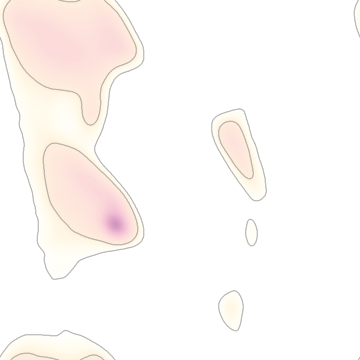
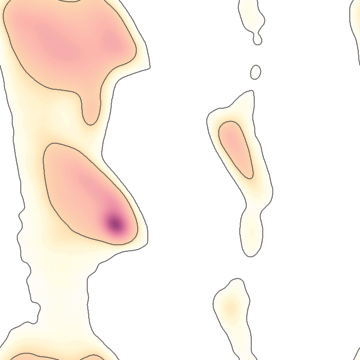
Update Ramachandran plot
Default levels are 2% and 0.5% now (new figures). Background ramachandran
figures are gamma corrected (2.5).
For stand-alone rama plot add options to change gamma and contour levels
on the command line.

[This was a nightmare to merge.]

diff --git a/src/rama_plot_with_canvas.cc b/src/rama_plot_with_canvas.cc
@@ -37,6 +37,7 @@
 #include <iostream>
 #include <algorithm>
 #include <sys/stat.h>
+#include <cmath>
 
 #include <gdk/gdkkeysyms.h> // for keyboarding.
 
@@ -65,6 +66,10 @@
 
 #include "c-interface.h"
 #include "c-interface-gtk-widgets.h"
+
+
+float coot::rama_plot::default_level_prefered = 0.02;
+float coot::rama_plot::default_level_allowed = 0.0005;
 
 void
 coot::rama_plot::init(int imol_in, const std::string &mol_name_in, float level_prefered, float level_allowed,
@@ -438,7 +443,6 @@ coot::rama_plot::init_internal(const std::string &mol_name,
        level_prefered != current_level_prefered) {
       current_level_allowed = level_allowed;
       current_level_prefered = level_prefered;
-
    }
 
    if (!current_bg) {
@@ -553,11 +557,14 @@ coot::rama_plot::setup_internal(float level_prefered, float level_allowed) {
    
    // Lovell et al. 2003, 50, 437 Protein Structure, Function and Genetics values:
    rama_threshold_preferred = 0.02; 
-   rama_threshold_allowed = 0.002;
+   rama_threshold_allowed = 0.0005;
    
    //clipper defaults: 0.01 0.0005
 
    rama.set_thresholds(level_prefered, level_allowed);
+   // do we need this?
+   rama_threshold_preferred = level_prefered;
+   rama_threshold_allowed = level_allowed;
    //
 
    r_gly.init(clipper::Ramachandran::Gly2);
@@ -671,12 +678,12 @@ coot::rama_plot::setup_background(bool blocks, bool isolines, bool print_image) 
    bg_non_gly_pro_pre_pro_ileval = goo_canvas_group_new(root, NULL);
 
    // if default we use images otherwise we make blocks
-
    if (!print_image) {
       // use a pre-made rama picture if we have standard settings,
       // otherwise make a block background to specifications
-      if (fabs(rama_threshold_preferred - 0.02) < 0.000001 &&
-          fabs(rama_threshold_allowed - 0.002) < 0.000001 &&
+      if (fabs(rama_threshold_preferred - default_level_prefered) < 0.000001 &&
+          fabs(rama_threshold_allowed - default_level_allowed) < 0.000001 &&
+          fabs(step - 2.) < 0.000001 &&
           psi_axis_mode == PSI_CLASSIC)
       {
 
@@ -690,14 +697,9 @@ coot::rama_plot::setup_background(bool blocks, bool isolines, bool print_image) 
       }
    }
 
-   // 20220315-PE it's good if take_bg_image is 0 here (no errors)
-
-   if (take_bg_image > 0) {
-
-      // bg not loaded from image, so lets make the "classic" way
-
-      // sad face path
-      std::cout << "rama_plot::setup_background() PATH E" << std::endl;
+   // no bg done, so lets make the "classic" way
+   // take_bg_image is 0 for making it from a png.
+   if (take_bg_image) {
       // do at least one:
       if (! blocks && ! isolines)
          blocks = 1;
@@ -744,6 +746,8 @@ coot::rama_plot::get_intermediate_bg_colour(guint start_colour[4],
    static guint new_colour[4];
    float x;
    guint rgba_bg;
+   float y;
+   float z;
 
    x = (probability - prob_min) / (prob_max - prob_min);
 
@@ -754,12 +758,14 @@ coot::rama_plot::get_intermediate_bg_colour(guint start_colour[4],
       else
          new_colour[i] = (int)((1. - x) * (float)start_colour[i] +
                                x * (float)end_colour[i]);
+      y = new_colour[i]/255.;
+      new_colour[i] = (int) (255. * pow(y, gamma_correction));
    }
+
 
    // do some byte shift
    rgba_bg = (new_colour[0] << 24) + (new_colour[1] << 16) +
          (new_colour[2] << 8) + new_colour[3];
-
    return rgba_bg;
 }
 
@@ -868,14 +874,15 @@ coot::rama_plot::make_background(const clipper::Ramachandran rama_type,
                                           "line-width",0.5,
                                           NULL);
             }
-
          }
       }
    }
-
 }
 
 
+#ifdef HAVE_GOOCANVAS
+
+// returns 0 on success; 1 on failure
 int
 coot::rama_plot::make_background_from_image(const clipper::Ramachandran rama_type,
                                             GooCanvasItem *bg_group,
@@ -912,6 +919,7 @@ coot::rama_plot::make_background_from_image(const clipper::Ramachandran rama_typ
 
    return ret; // return 0 on success (no failure)
 }
+#endif
 
 
 void
@@ -1156,8 +1164,8 @@ coot::rama_plot::make_isolines(const clipper::Ramachandran rama_type, GooCanvasI
                                                 x1,y1,
                                                 x2,y2,
 //                                                "stroke-color", "black",
-                                                "stroke-color", "grey60",
-                                                "line-width", 0.5,
+                                                "stroke-color", "grey30",
+                                                "line-width", line_width,
                                                 NULL);
          }
       }

diff --git a/src/dynarama-main.cc b/src/dynarama-main.cc
@@ -82,6 +82,8 @@ print_help(std::string cmd) {
              << "[--kleywegt (to make kleywegt, autoamtically for multiple selections, chains)]\n"
              << "[--edit (edit mode, currently debug only)]\n"
              << "[--psiaxis (change psi axis to -120 to 240)]\n"
+             << "[--levelpreferred levelin] (default: " << coot::rama_plot::default_level_prefered << ")\n"
+             << "[--levelallowed levelin] (default: " << coot::rama_plot::default_level_allowed << ")\n"
              << "[--help (this help)]\n"
              << "\n";
    std::cout << "     where pdbin is the protein and pdbin2 a second one for a Kleywegt plot.\n";
@@ -106,10 +108,14 @@ main(int argc, char *argv[]) {
    int is_kleywegt_plot_flag = 0;
    int psi_axis_option = coot::rama_plot::PSI_CLASSIC;
    float block_size = 2;
+//   float level_prefered = 0.02;
+   float level_prefered = coot::rama_plot::default_level_prefered;
+   float level_allowed = coot::rama_plot::default_level_allowed;
+   float gamma = 0;
    bool do_help = false;
    bool print_bg = false;
 
-   const char *optstr = "i:s:j:t:c:d:e:b:kphx";
+   const char *optstr = "i:s:j:t:c:d:e:b:l:m:g:kphx";
    struct option long_options[] = {
    {"pdbin", 1, 0, 0},
    {"selection", 1, 0, 0},
@@ -119,6 +125,8 @@ main(int argc, char *argv[]) {
    {"chain2", 1, 0, 0},
    {"edit", 1, 0, 0},   // BL Note:: maybe there should be an edit selection
    {"blocksize", 1, 0, 0},
+   {"levelpreferred", 1, 0, 0},
+   {"levelallowed", 1, 0, 0},
    {"kleywegt", 0, 0, 0},
    {"psiaxis", 0, 0, 0},
    {"help", 0, 0, 0},
@@ -168,6 +176,14 @@ main(int argc, char *argv[]) {
             }
             if (arg_str == "blocksize") {
                block_size = coot::util::string_to_float(coot_optarg);
+               n_used_args += 2;
+            }
+            if (arg_str == "levelpreferred") {
+               level_prefered = coot::util::string_to_float(coot_optarg);
+               n_used_args += 2;
+            }
+            if (arg_str == "levelallowed") {
+               level_allowed = coot::util::string_to_float(coot_optarg);
                n_used_args += 2;
             }
          } else {
@@ -233,6 +249,16 @@ main(int argc, char *argv[]) {
          n_used_args += 2;
          break;
 
+      case 'l':
+         level_prefered = coot::util::string_to_float(coot_optarg);
+         n_used_args += 2;
+         break;
+
+      case 'm':
+         level_allowed = coot::util::string_to_float(coot_optarg);
+         n_used_args += 2;
+         break;
+
       case 'k':
          is_kleywegt_plot_flag = 1;
          n_used_args++;
@@ -249,12 +275,19 @@ main(int argc, char *argv[]) {
          do_help = true;
          break;
 
+      // Secret options
       // This is used to make background images
       case 'x':
+         std::cout << "Making bg images... " << std::endl;
          print_help(argv[0]);
          n_used_args++;
          print_bg = true;
          do_help = false;
+         break;
+
+      case 'g':
+         gamma = coot::util::string_to_float(coot_optarg);
+         n_used_args += 2;
          break;
 
       case '?':
@@ -294,8 +327,6 @@ main(int argc, char *argv[]) {
 
       gtk_init (&argc, &argv);
 
-      float level_prefered = 0.02;
-      float level_allowed = 0.002;
       int imol = 0; // dummy for now
       int imol2 = 0;
 
@@ -420,6 +451,9 @@ main(int argc, char *argv[]) {
          }
 
          rama->set_stand_alone();
+         if (gamma) {
+            rama->set_gamma_correction(gamma);
+         }
          rama->init(imol,
                     pdb_file_name,
                     level_prefered,
@@ -471,6 +505,7 @@ main(int argc, char *argv[]) {
 
             if (rama) {
                if (print_bg) {
+                  std::cout<<"BL INFO:: now make bg images with levels " << level_prefered << " " << level_allowed << " and block " << block_size << std::endl;
                   rama->make_bg_images();
                }
             }
@@ -488,8 +523,6 @@ main(int argc, char *argv[]) {
 
       gtk_init(&argc, &argv);
    }
-
-   std::cout << "BL DBEUG:: returning now n_used_args" << n_used_args <<std::endl;
 
    return 0;
 

diff --git a/src/c-interface-validate.cc b/src/c-interface-validate.cc
@@ -81,6 +81,8 @@
 
 #include "widget-from-builder.hh"
 
+#include "rama_plot_with_canvas.hh"
+
 /*  ----------------------------------------------------------------------- */
 /*                  check waters interface                                  */
 /*  ----------------------------------------------------------------------- */
